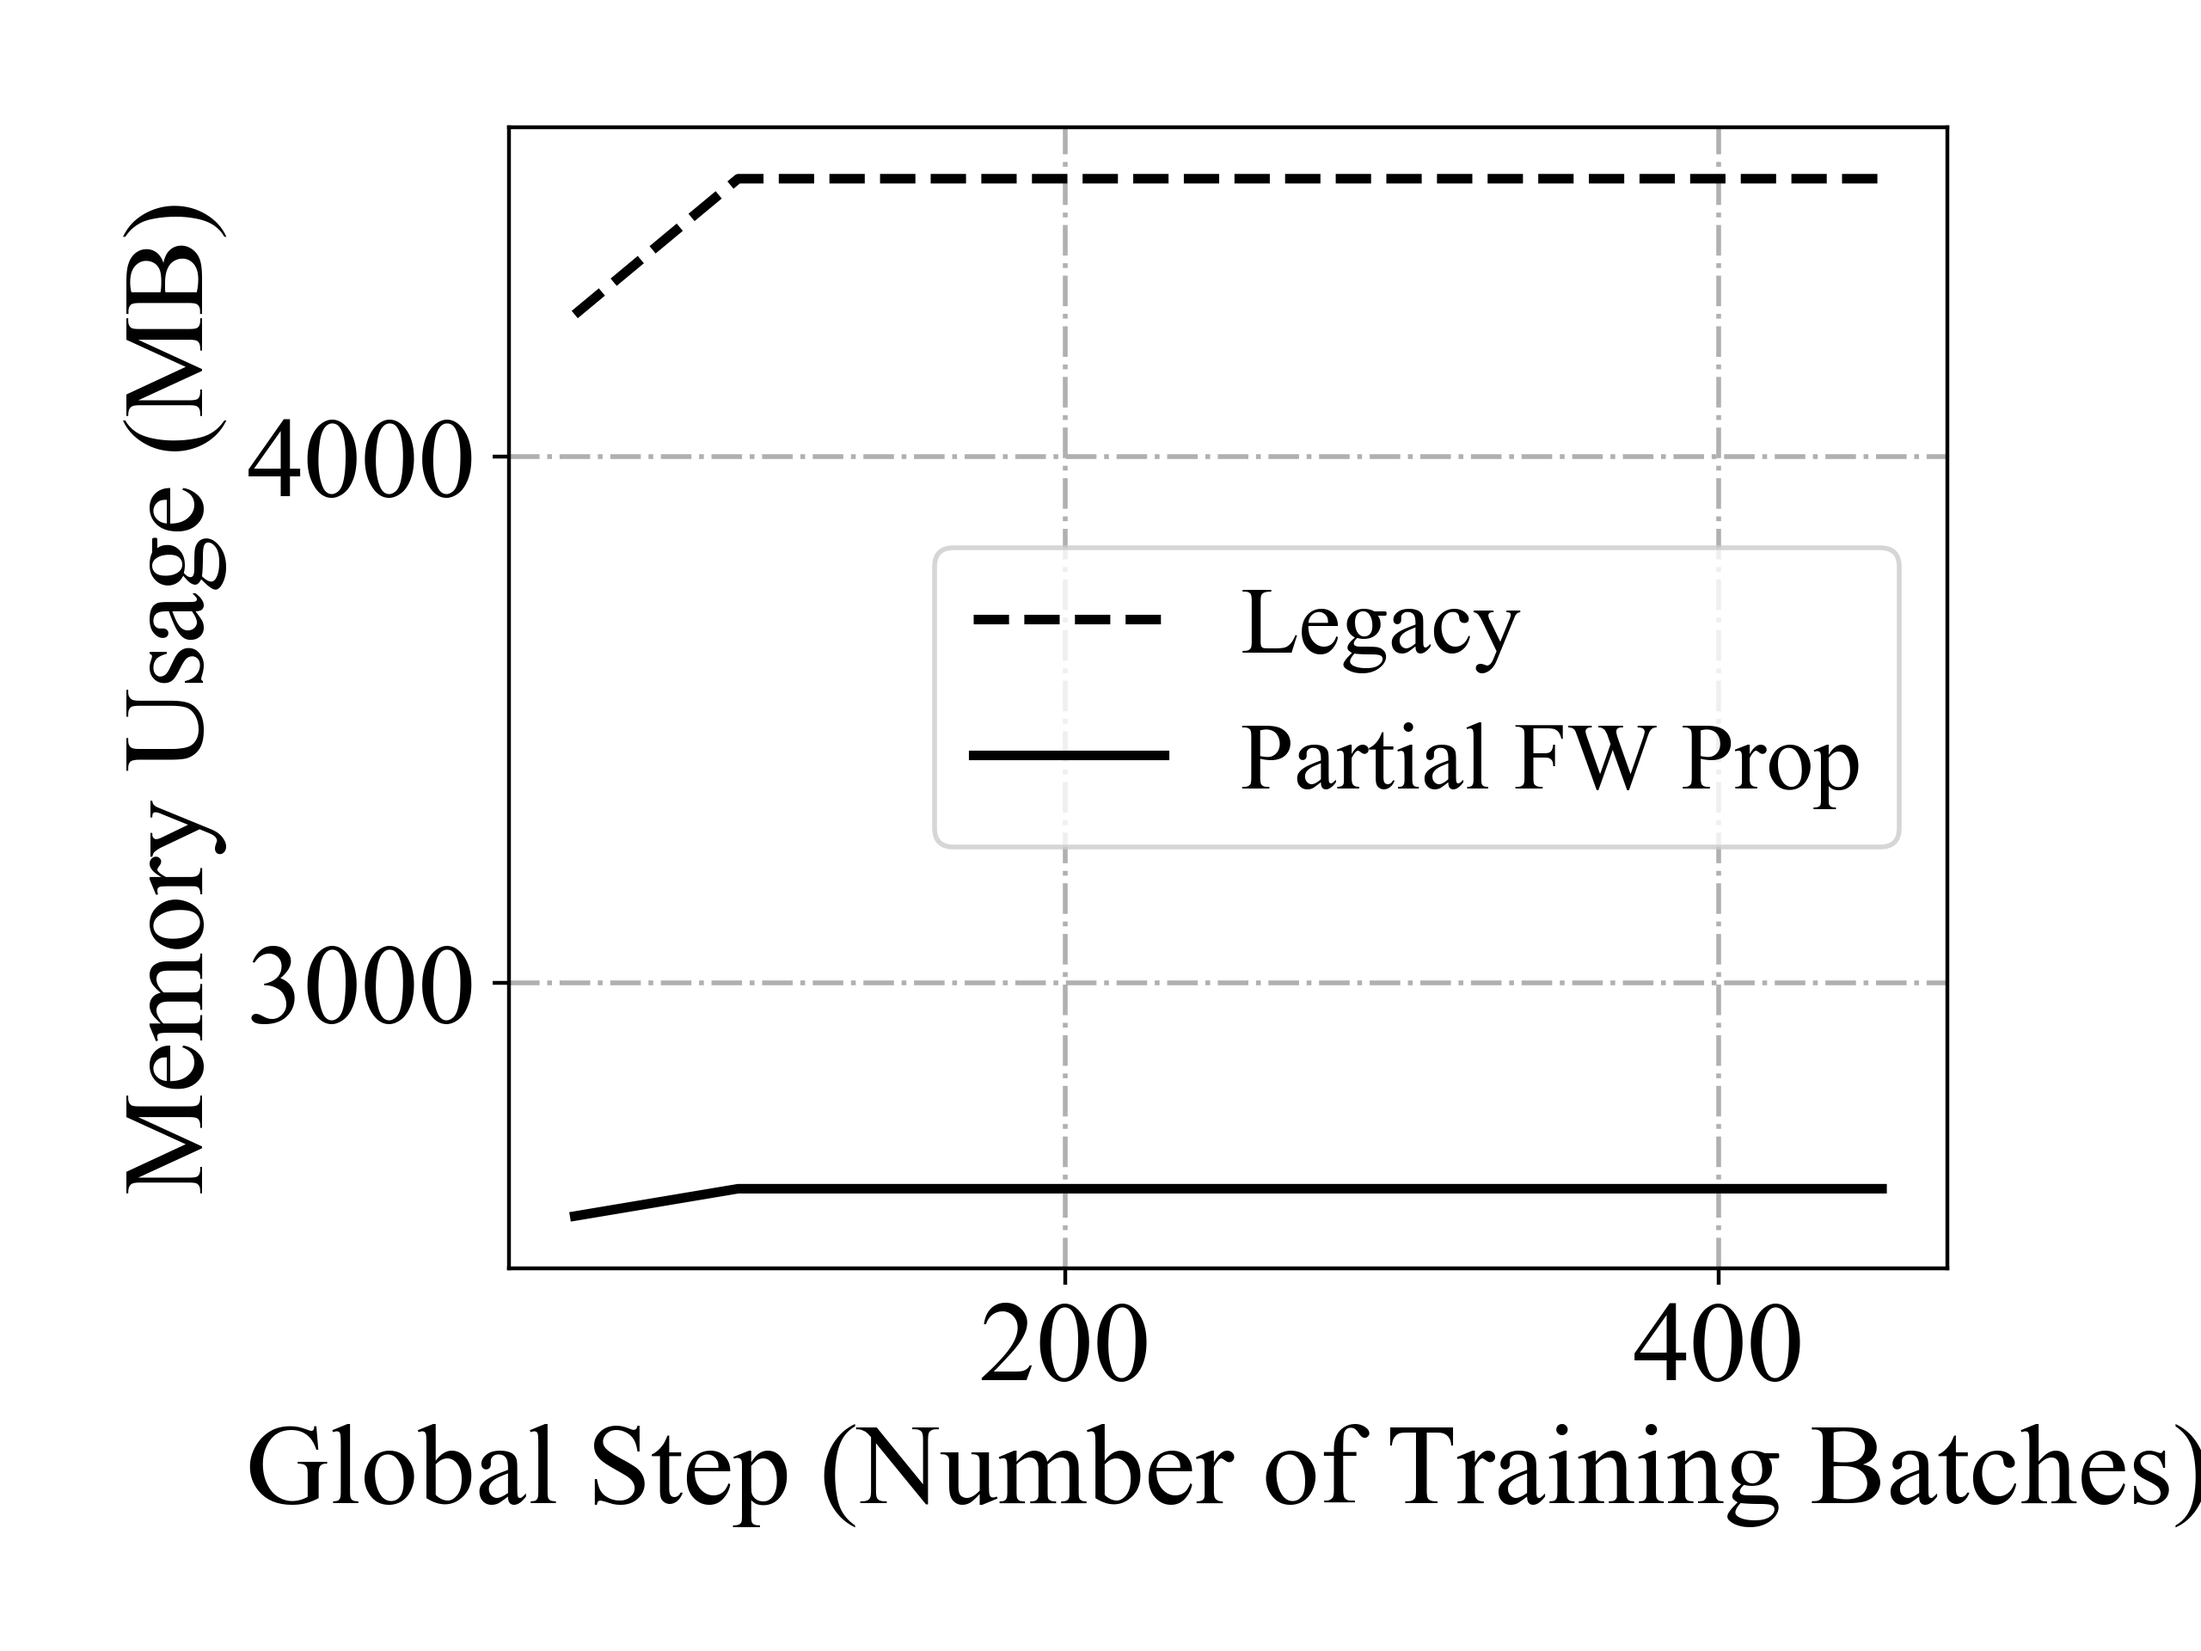
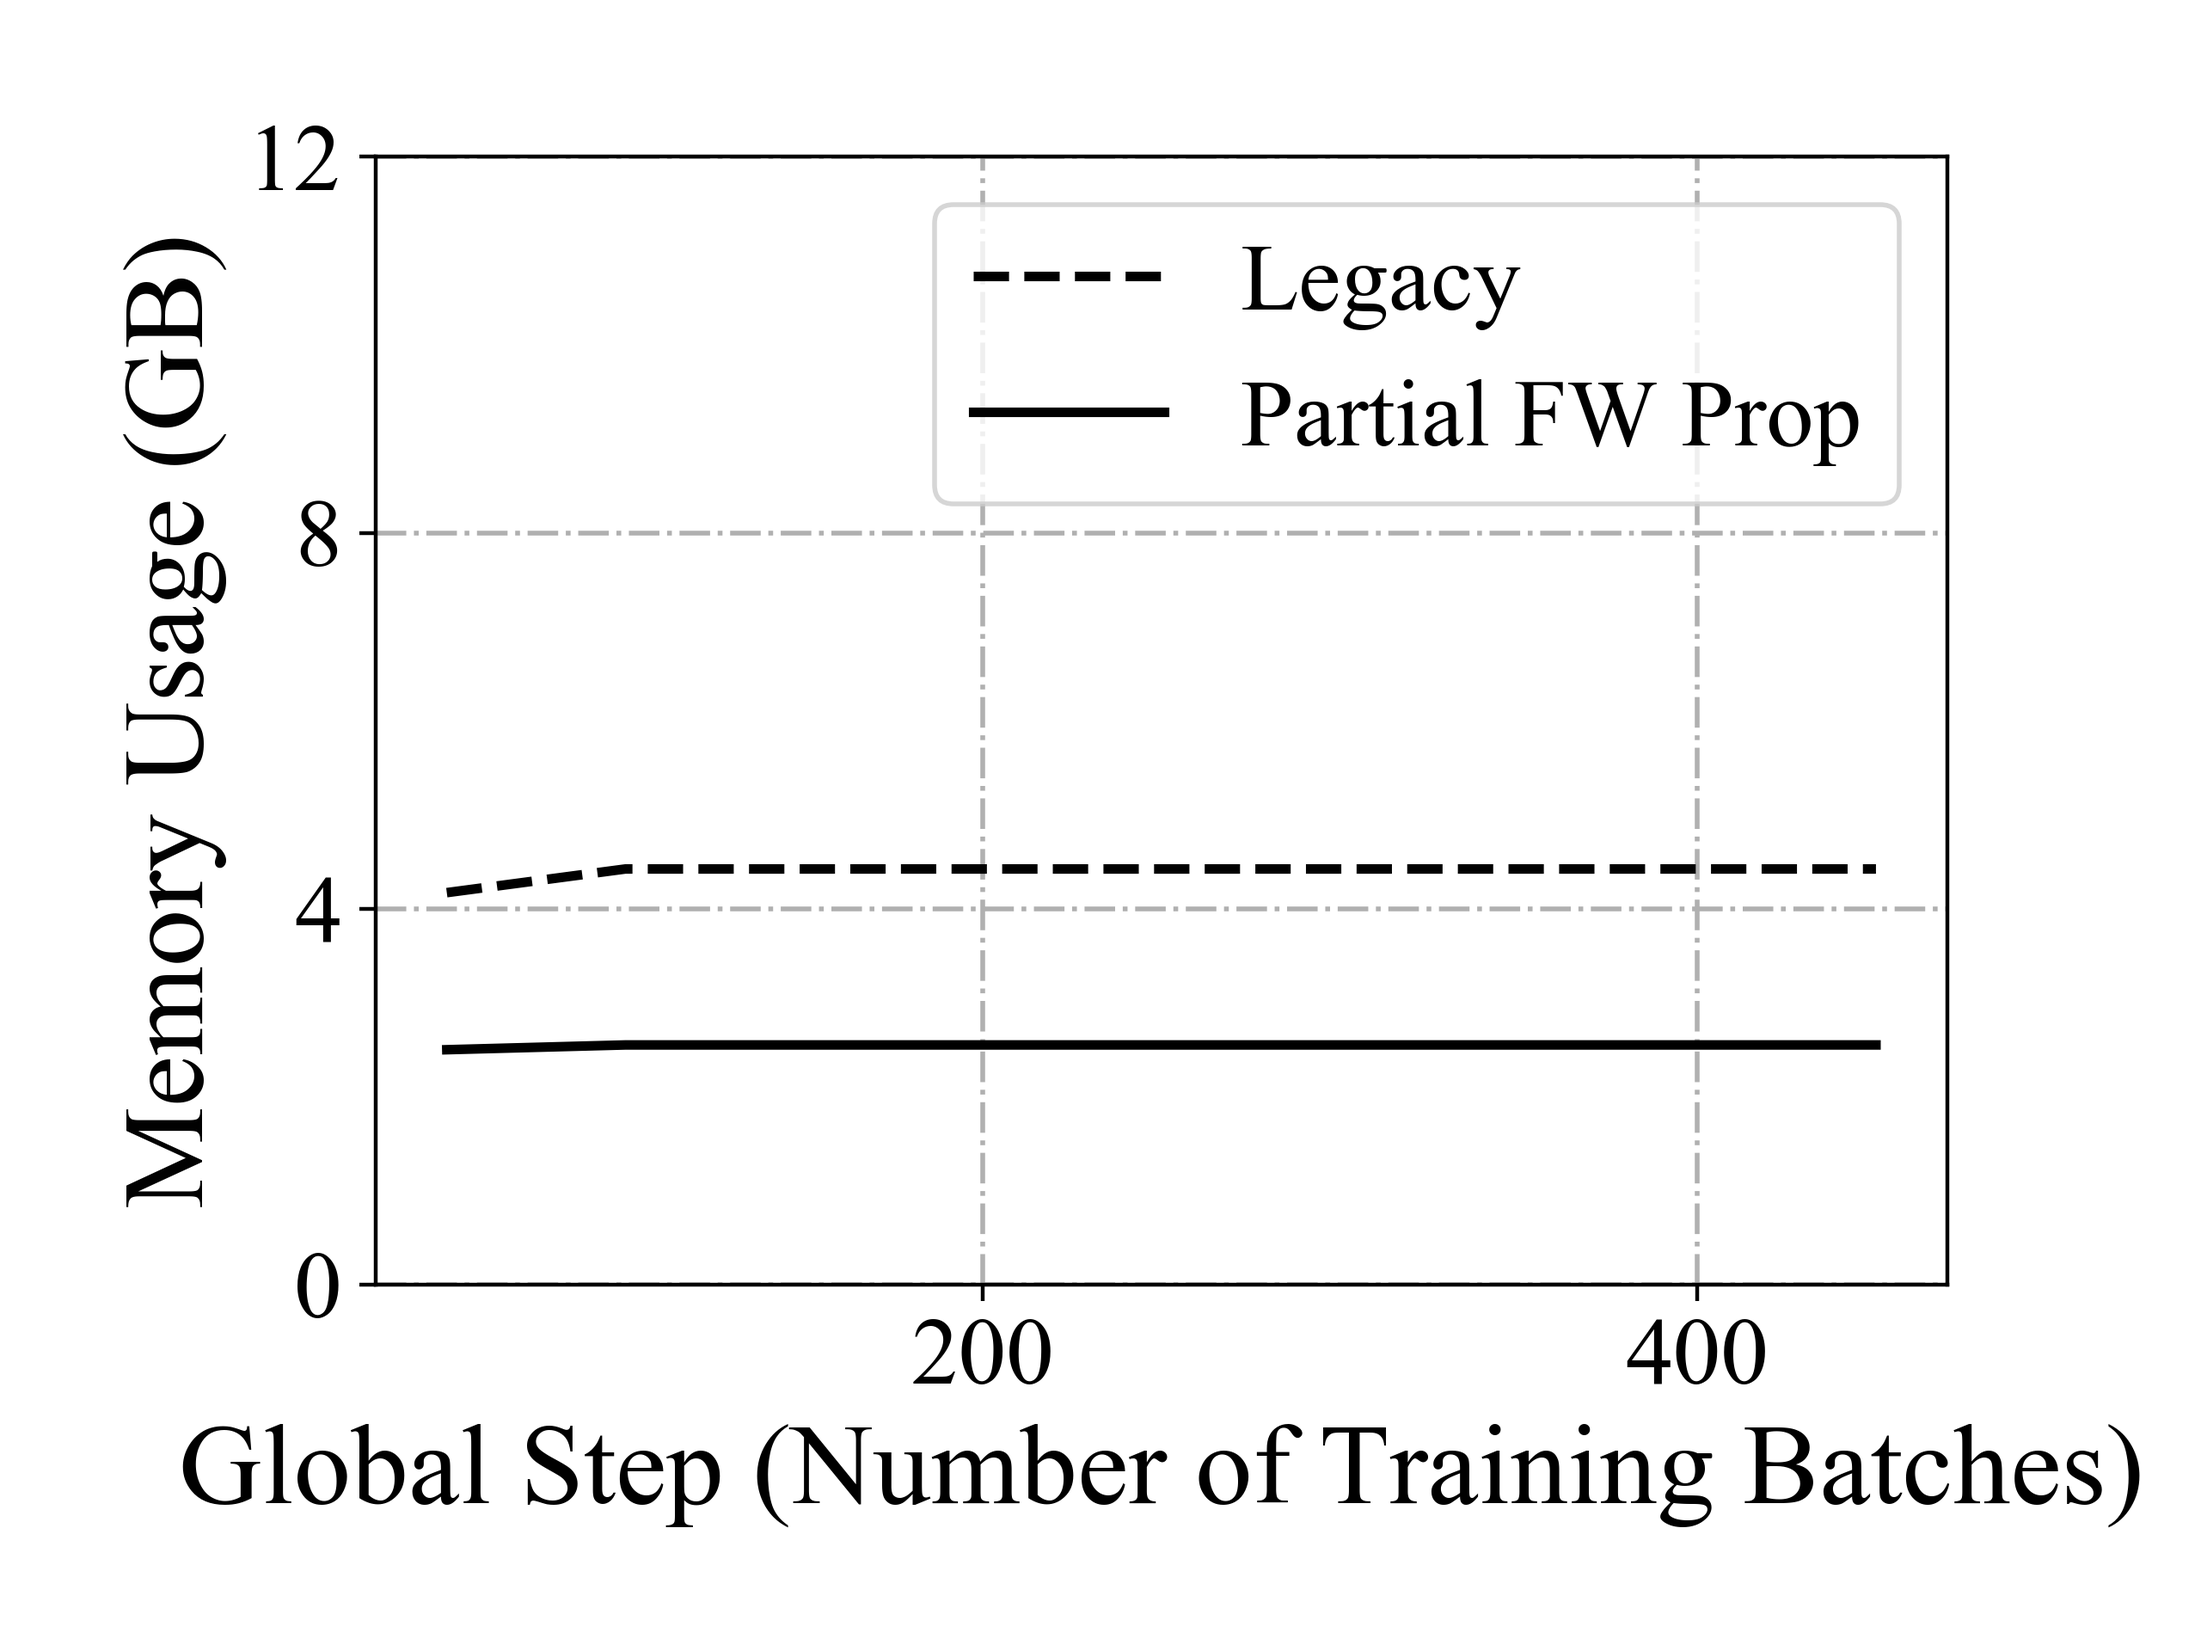
Merged the visualize-all script inside the python script.

diff --git a/workspace/results/tensorboard/visualizer.py b/workspace/results/tensorboard/visualizer.py
@@ -4,18 +4,8 @@
     Description: This file plots the memory profile of the Sockeye NMT Toolkit.
 """
 
-import argparse
 import numpy as np
 import matplotlib.pyplot as plt
-
-parser = argparse.ArgumentParser()
-
-parser.add_argument('--csv-prefix', help='Prefix of CSV Files',
-                    type=str, default=None)
-parser.add_argument('--metric', help='Metric to be Plotted', 
-                    type=str, default=None)
-parser.add_argument('--metric-unit', help='Metric Unit', 
-                    type=str, default=None)
 
 def plt_rc_setup(dpi=400, fontsize=24):
     """
@@ -31,7 +21,14 @@ def plt_rc_setup(dpi=400, fontsize=24):
     plt.rc('font', family='Times New Roman', size=fontsize)
 
 
-def plt_legacy_vs_partial_fw_prop(csv_prefix, metric, metric_unit, ymin=None,
+def gen_from_txt(fname):
+    data = np.genfromtxt(fname=fname, delimiter=',').astype(np.float64)[1:,:]
+    data[:, 0] = (data[:, 0] - data[0, 0]) / 60.0
+
+    return data
+
+
+def plt_legacy_vs_partial_fw_prop(csv_prefix, metric, metric_unit=None, ymin=None, ymax=None,
                                   xlabel='Global Step', 
                                   xlabel_unit='Number of Training Batches', title=None):
     """
@@ -40,22 +37,29 @@ def plt_legacy_vs_partial_fw_prop(csv_prefix, metric, metric_unit, ymin=None,
     ylabel = metric.title().replace('_', ' ')
     title ='%s-legacy_vs_partial_fw_prop-%s' % (csv_prefix, metric)
 
-    legacy  = np.genfromtxt(fname='%s-legacy/csv/%s.csv' % (csv_prefix, metric),
-                            delimiter=',').astype(np.float64)[1:,:]
-    partial = np.genfromtxt(fname='%s-partial_fw_prop/csv/%s.csv' % \
-                                  (csv_prefix, metric),
-                            delimiter=',').astype(np.float64)[1:,:]
-    
-    plt.Figure()
+    legacy  = gen_from_txt(fname='%s-legacy/csv/%s.csv' % (csv_prefix, metric))
+    partial = gen_from_txt(fname='%s-partial_fw_prop/csv/%s.csv' % (csv_prefix, metric))
 
-    ax = plt.axes()
-    ax.plot(legacy [:,1], legacy [:,2], linewidth=2, linestyle='--', 
-            color='black', label='Legacy')
-    ax.plot(partial[:,1], partial[:,2], linewidth=2, linestyle='-',
-            color='black', label='Partial FW Prop')
+    if metric == 'memory_usage' and metric_unit == 'GB':
+        legacy [:,2] = legacy [:,2] / 1024
+        partial[:,2] = partial[:,2] / 1024
+    
+    plt.figure()
+
+    plt.plot(legacy [:,1], legacy [:,2], linewidth=2, linestyle='--', 
+             color='black', label='Legacy')
+    plt.plot(partial[:,1], partial[:,2], linewidth=2, linestyle='-',
+             color='black', label='Partial FW Prop')
 
     plt.xlabel("%s (%s)" % (xlabel, xlabel_unit))
     plt.ylabel("%s (%s)" % (ylabel, metric_unit) if metric_unit is not None else ylabel)
+    plt.xticks(fontsize=20)
+    plt.yticks(fontsize=20)
+
+    if metric == 'memory_usage':
+        plt.yticks(np.arange(0, 13, 4))
+    if metric == 'perplexity':
+        plt.yticks(np.arange(0, 1300, 400))
 
     plt.legend(fontsize=20)
     plt.grid(linestyle='-.', linewidth=1)
@@ -68,8 +72,8 @@ if __name__ == "__main__":
     # setup the RC parameters
     plt_rc_setup()
 
-    args = parser.parse_args()
-
-    plt_legacy_vs_partial_fw_prop(csv_prefix=args.csv_prefix,
-                                  metric=args.metric, 
-                                  metric_unit=args.metric_unit)
+    plt_legacy_vs_partial_fw_prop(csv_prefix='iwslt15-vi_en-groundhog-500', metric='speed', 
+                                  metric_unit='Samples/s')
+    plt_legacy_vs_partial_fw_prop(csv_prefix='iwslt15-vi_en-groundhog-500', metric='perplexity')
+    plt_legacy_vs_partial_fw_prop(csv_prefix='iwslt15-vi_en-groundhog-500', metric='memory_usage',
+                                  metric_unit='GB')
